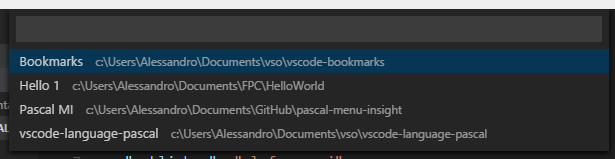
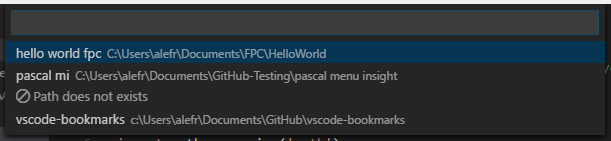
Closes #30

diff --git a/extension.ts b/extension.ts
@@ -107,11 +107,23 @@ export function activate() {
         return items.filter(value => value.description.toString().toLowerCase() != vscode.workspace.rootPath.toLowerCase());
     }
     
-
+    function indicateInvalidPaths(items:any[]): any[] {
+        for (var index = 0; index < items.length; index++) {
+            var element = items[index];
+            
+            if (!fs.existsSync(element.description.toString()) ) {
+                items[index].detail = '$(circle-slash) Path does not exists';
+            }
+        }
+        
+        return items;
+    }
+    
     // List the Projects and allow the user to pick (select) one of them to activate
     vscode.commands.registerCommand('projectManager.listProjects', () => {
-        let items = []
+        let items = [];
         let itemsToShow = [];
+        
         if (fs.existsSync(projectFile)) {
             items = loadProjects(projectFile);
             if (items == null) {
@@ -121,8 +133,9 @@ export function activate() {
             vscode.window.showInformationMessage('No projects saved yet!');
             return;
         }
-
+        
         itemsToShow = removeRootPath(items);
+        itemsToShow = indicateInvalidPaths(itemsToShow)
 
         var sortList = vscode.workspace.getConfiguration('projectManager').get('sortList');
 
@@ -138,17 +151,42 @@ export function activate() {
             if (typeof selection == 'undefined') {
                 return;
             }			
-			
-            // project path
-            let projectPath = selection.description;
-            projectPath = normalizePath(projectPath);
+            
+            if (!fs.existsSync(selection.description.toString())) {
+                var optionUpdateProject = <vscode.MessageItem>{
+                    title: "Update Project"
+                };
+                var optionDeleteProject = <vscode.MessageItem>{
+                    title: "Delete Project"
+                };
 
-            let openInNewWindow: boolean = vscode.workspace.getConfiguration('projectManager').get('openInNewWindow', true);
-            let uri: vscode.Uri = vscode.Uri.file(projectPath) 
-            vscode.commands.executeCommand('vscode.openFolder', uri, openInNewWindow) 
-                .then(
-                    value => ( {} ),  //done 
-                    value => vscode.window.showInformationMessage('Could not open the project!') ); 
+                vscode.window.showErrorMessage('The project has an invalid path. What would you like to do?', optionUpdateProject, optionDeleteProject).then(option => {
+                    // nothing selected
+                    if (typeof option == 'undefined') {
+                        return;
+                    }
+
+                    if (option.title == "Update Project") {
+                        vscode.commands.executeCommand('projectManager.editProjects');
+                    } else { // Update Project
+                        let itemsFiltered = [];
+                        itemsFiltered = items.filter(value => value.label.toString().toLowerCase() != selection.label.toLowerCase());
+                        fs.writeFileSync(projectFile, JSON.stringify(itemsFiltered, null, "\t"));
+                        return;
+                    }
+                }); 
+            } else {
+                // project path
+                let projectPath = selection.description;
+                projectPath = normalizePath(projectPath);
+
+                let openInNewWindow: boolean = vscode.workspace.getConfiguration('projectManager').get('openInNewWindow', true);
+                let uri: vscode.Uri = vscode.Uri.file(projectPath) 
+                vscode.commands.executeCommand('vscode.openFolder', uri, openInNewWindow) 
+                    .then(
+                        value => ( {} ),  //done 
+                        value => vscode.window.showInformationMessage('Could not open the project!') ); 
+            }
         });
     });
 

diff --git a/README.md b/README.md
@@ -72,7 +72,8 @@ _(default is `true`)_
 
 ## Version 0.7.0
 
-* **New:** Don't show the current folder/project in the list (issue [#28]()https://github.com/alefragnani/vscode-project-manager/issues/28)
+* **New:** Don't show the current folder/project in the project list (issue [#28](https://github.com/alefragnani/vscode-project-manager/issues/28))
+* **New:** Indicate _invalid paths_ in the project list (issue [#30](https://github.com/alefragnani/vscode-project-manager/issues/30))
 
 ## Version 0.6.0
 
